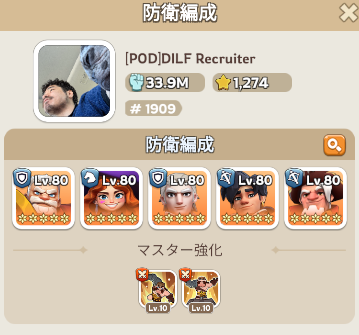
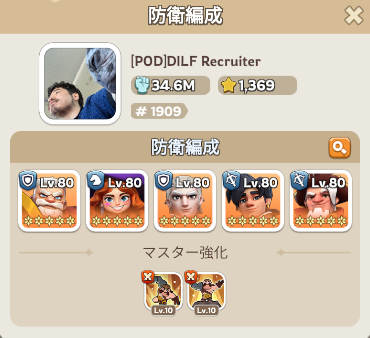
敵鯖ランキングを最新版に更新、スクショを差し替え
ランキング4部門を最新版に更新し、従来データは「初期版」アコーディオンに保管。
同盟総力に同盟名列を追加。英雄装備-競技場のスクショ12枚を差し替え。

diff --git a/event-kingdom.html b/event-kingdom.html
@@ -35,7 +35,112 @@
 
     <section class="cat">
       <h2 class="cat-title">📊 敵鯖ランキング</h2>
-      <p class="cat-lead">各部門の TOP10 です。見出しをタップで開閉できます。</p>
+      <p class="cat-lead">各部門の TOP10（最新版）です。過去のデータは一番下の「初期版」に格納しています。</p>
+
+      <details class="acc">
+        <summary>💪 個人総力</summary>
+        <div class="acc-body">
+          <div class="table-wrap">
+            <table class="rank-table">
+              <thead>
+                <tr><th>順位</th><th>戦力</th><th>同盟</th><th>プレイヤー</th></tr>
+              </thead>
+              <tbody>
+                <tr class="top1"><td class="rk">🥇</td><td class="num">517.2M</td><td><span class="al-tag">POD</span></td><td class="who">DILF Recruiter</td></tr>
+                <tr class="top2"><td class="rk">🥈</td><td class="num">299.7M</td><td><span class="al-tag">HGD</span></td><td class="who">Wrenchie</td></tr>
+                <tr class="top3"><td class="rk">🥉</td><td class="num">266.9M</td><td><span class="al-tag">GDR</span></td><td class="who">任沅意</td></tr>
+                <tr><td class="rk">4</td><td class="num">242.8M</td><td><span class="al-tag">POD</span></td><td class="who">Good Boy</td></tr>
+                <tr><td class="rk">5</td><td class="num">234.2M</td><td><span class="al-tag">POD</span></td><td class="who">DaddyPeterGriff</td></tr>
+                <tr><td class="rk">6</td><td class="num">222.8M</td><td><span class="al-tag">POD</span></td><td class="who">warlord skip</td></tr>
+                <tr><td class="rk">7</td><td class="num">218.3M</td><td><span class="al-tag">GDR</span></td><td class="who">WARcommander37</td></tr>
+                <tr><td class="rk">8</td><td class="num">218.1M</td><td><span class="al-tag">VAL</span></td><td class="who">KrabKing</td></tr>
+                <tr><td class="rk">9</td><td class="num">215.4M</td><td><span class="al-tag">HGD</span></td><td class="who">Skdòosh</td></tr>
+                <tr><td class="rk">10</td><td class="num">214.5M</td><td><span class="al-tag">POD</span></td><td class="who">Universe</td></tr>
+              </tbody>
+            </table>
+          </div>
+        </div>
+      </details>
+
+      <details class="acc">
+        <summary>🗺 秘境の試練</summary>
+        <div class="acc-body">
+          <div class="table-wrap">
+            <table class="rank-table">
+              <thead>
+                <tr><th>順位</th><th>スコア</th><th>同盟</th><th>プレイヤー</th></tr>
+              </thead>
+              <tbody>
+                <tr class="top1"><td class="rk">🥇</td><td class="num">1,937</td><td><span class="al-tag">POD</span></td><td class="who">DILF Recruiter</td></tr>
+                <tr class="top2"><td class="rk">🥈</td><td class="num">1,652</td><td><span class="al-tag">GDR</span></td><td class="who">B O S S</td></tr>
+                <tr class="top3"><td class="rk">🥉</td><td class="num">1,594</td><td><span class="al-tag">HGD</span></td><td class="who">Wrenchie</td></tr>
+                <tr><td class="rk">4</td><td class="num">1,583</td><td><span class="al-tag">GDR</span></td><td class="who">任沅意</td></tr>
+                <tr><td class="rk">5</td><td class="num">1,562</td><td><span class="al-tag">GDR</span></td><td class="who">WARcommander37</td></tr>
+                <tr><td class="rk">6</td><td class="num">1,537</td><td>—</td><td class="who">Roadrage424</td></tr>
+                <tr><td class="rk">7</td><td class="num">1,466</td><td><span class="al-tag">VAL</span></td><td class="who">KrabKing</td></tr>
+                <tr><td class="rk">8</td><td class="num">1,462</td><td><span class="al-tag">POD</span></td><td class="who">BrDg</td></tr>
+                <tr><td class="rk">9</td><td class="num">1,394</td><td><span class="al-tag">POD</span></td><td class="who">Quag</td></tr>
+                <tr><td class="rk">10</td><td class="num">1,388</td><td><span class="al-tag">POD</span></td><td class="who">warlord skip</td></tr>
+              </tbody>
+            </table>
+          </div>
+        </div>
+      </details>
+
+      <details class="acc">
+        <summary>🦸 英雄総力</summary>
+        <div class="acc-body">
+          <div class="table-wrap">
+            <table class="rank-table">
+              <thead>
+                <tr><th>順位</th><th>戦力</th><th>同盟</th><th>英雄</th><th>プレイヤー</th></tr>
+              </thead>
+              <tbody>
+                <tr class="top1"><td class="rk">🥇</td><td class="num">12.7M</td><td><span class="al-tag">POD</span></td><td class="who"><img class="mk" src="image/アマデウス.webp" alt="アマデウス">アマデウス</td><td class="who">DILF Recruiter</td></tr>
+                <tr class="top2"><td class="rk">🥈</td><td class="num">9.1M</td><td><span class="al-tag">GDR</span></td><td class="who"><img class="mk" src="image/アマデウス.webp" alt="アマデウス">アマデウス</td><td class="who">B O S S</td></tr>
+                <tr class="top3"><td class="rk">🥉</td><td class="num">8.9M</td><td><span class="al-tag">GDR</span></td><td class="who"><img class="mk" src="image/アマデウス.webp" alt="アマデウス">アマデウス</td><td class="who">任沅意</td></tr>
+                <tr><td class="rk">4</td><td class="num">7.3M</td><td><span class="al-tag">HGD</span></td><td class="who"><img class="mk" src="image/ゾーイ.webp" alt="ゾーイ">ゾーイ</td><td class="who">Wrenchie</td></tr>
+                <tr><td class="rk">5</td><td class="num">7.0M</td><td><span class="al-tag">POD</span></td><td class="who"><img class="mk" src="image/ゾーイ.webp" alt="ゾーイ">ゾーイ</td><td class="who">Mr Rogers</td></tr>
+                <tr><td class="rk">6</td><td class="num">6.3M</td><td><span class="al-tag">POD</span></td><td class="who"><img class="mk" src="image/アマデウス.webp" alt="アマデウス">アマデウス</td><td class="who">Universe</td></tr>
+                <tr><td class="rk">7</td><td class="num">6.1M</td><td><span class="al-tag">GDR</span></td><td class="who"><img class="mk" src="image/アマデウス.webp" alt="アマデウス">アマデウス</td><td class="who">WARcommander37</td></tr>
+                <tr><td class="rk">8</td><td class="num">5.3M</td><td><span class="al-tag">POD</span></td><td class="who"><img class="mk" src="image/アマデウス.webp" alt="アマデウス">アマデウス</td><td class="who">warlord skip</td></tr>
+                <tr><td class="rk">9</td><td class="num">5.1M</td><td><span class="al-tag">VAL</span></td><td class="who"><img class="mk" src="image/マリン.webp" alt="マリン">マリン</td><td class="who">KrabKing</td></tr>
+                <tr><td class="rk">10</td><td class="num">5.0M</td><td><span class="al-tag">HGD</span></td><td class="who"><img class="mk" src="image/ゾーイ.webp" alt="ゾーイ">ゾーイ</td><td class="who">Skdòosh</td></tr>
+              </tbody>
+            </table>
+          </div>
+        </div>
+      </details>
+
+      <details class="acc">
+        <summary>🏰 同盟総力</summary>
+        <div class="acc-body">
+          <div class="table-wrap">
+            <table class="rank-table">
+              <thead>
+                <tr><th>順位</th><th>戦力</th><th>同盟</th><th>同盟名</th></tr>
+              </thead>
+              <tbody>
+                <tr class="top1"><td class="rk">🥇</td><td class="num">10.7B</td><td><span class="al-tag">POD</span></td><td class="who">IronDolphins</td></tr>
+                <tr class="top2"><td class="rk">🥈</td><td class="num">8.9B</td><td><span class="al-tag">VAL</span></td><td class="who">VanguardElite</td></tr>
+                <tr class="top3"><td class="rk">🥉</td><td class="num">7.6B</td><td><span class="al-tag">GDR</span></td><td class="who">GuildedDominium</td></tr>
+                <tr><td class="rk">4</td><td class="num">6.5B</td><td><span class="al-tag">HGD</span></td><td class="who">HighGuard</td></tr>
+                <tr><td class="rk">5</td><td class="num">5.1B</td><td><span class="al-tag">MNS</span></td><td class="who">MidnightShadow</td></tr>
+                <tr><td class="rk">6</td><td class="num">4.4B</td><td><span class="al-tag">gdr</span></td><td class="who">Empire</td></tr>
+                <tr><td class="rk">7</td><td class="num">3.2B</td><td><span class="al-tag">JOK</span></td><td class="who">BadJokes</td></tr>
+                <tr><td class="rk">8</td><td class="num">3.1B</td><td><span class="al-tag">NO9</span></td><td class="who">1909Daredevil</td></tr>
+                <tr><td class="rk">9</td><td class="num">2.9B</td><td><span class="al-tag">PPC</span></td><td class="who">PinkPonyClub</td></tr>
+                <tr><td class="rk">10</td><td class="num">1.2B</td><td><span class="al-tag">HgD</span></td><td class="who">RepublicOfHGD</td></tr>
+              </tbody>
+            </table>
+          </div>
+        </div>
+      </details>
+
+      <details class="acc">
+        <summary>📁 初期版（2026/09/06 時点）</summary>
+        <div class="acc-body">
+          <p class="mini-note">ページ公開時点のランキングです。最新版との比較用に残しています。</p>
 
       <details class="acc">
         <summary>💪 個人総力</summary>
@@ -135,6 +240,8 @@
               </tbody>
             </table>
           </div>
+        </div>
+      </details>
         </div>
       </details>
     </section>
